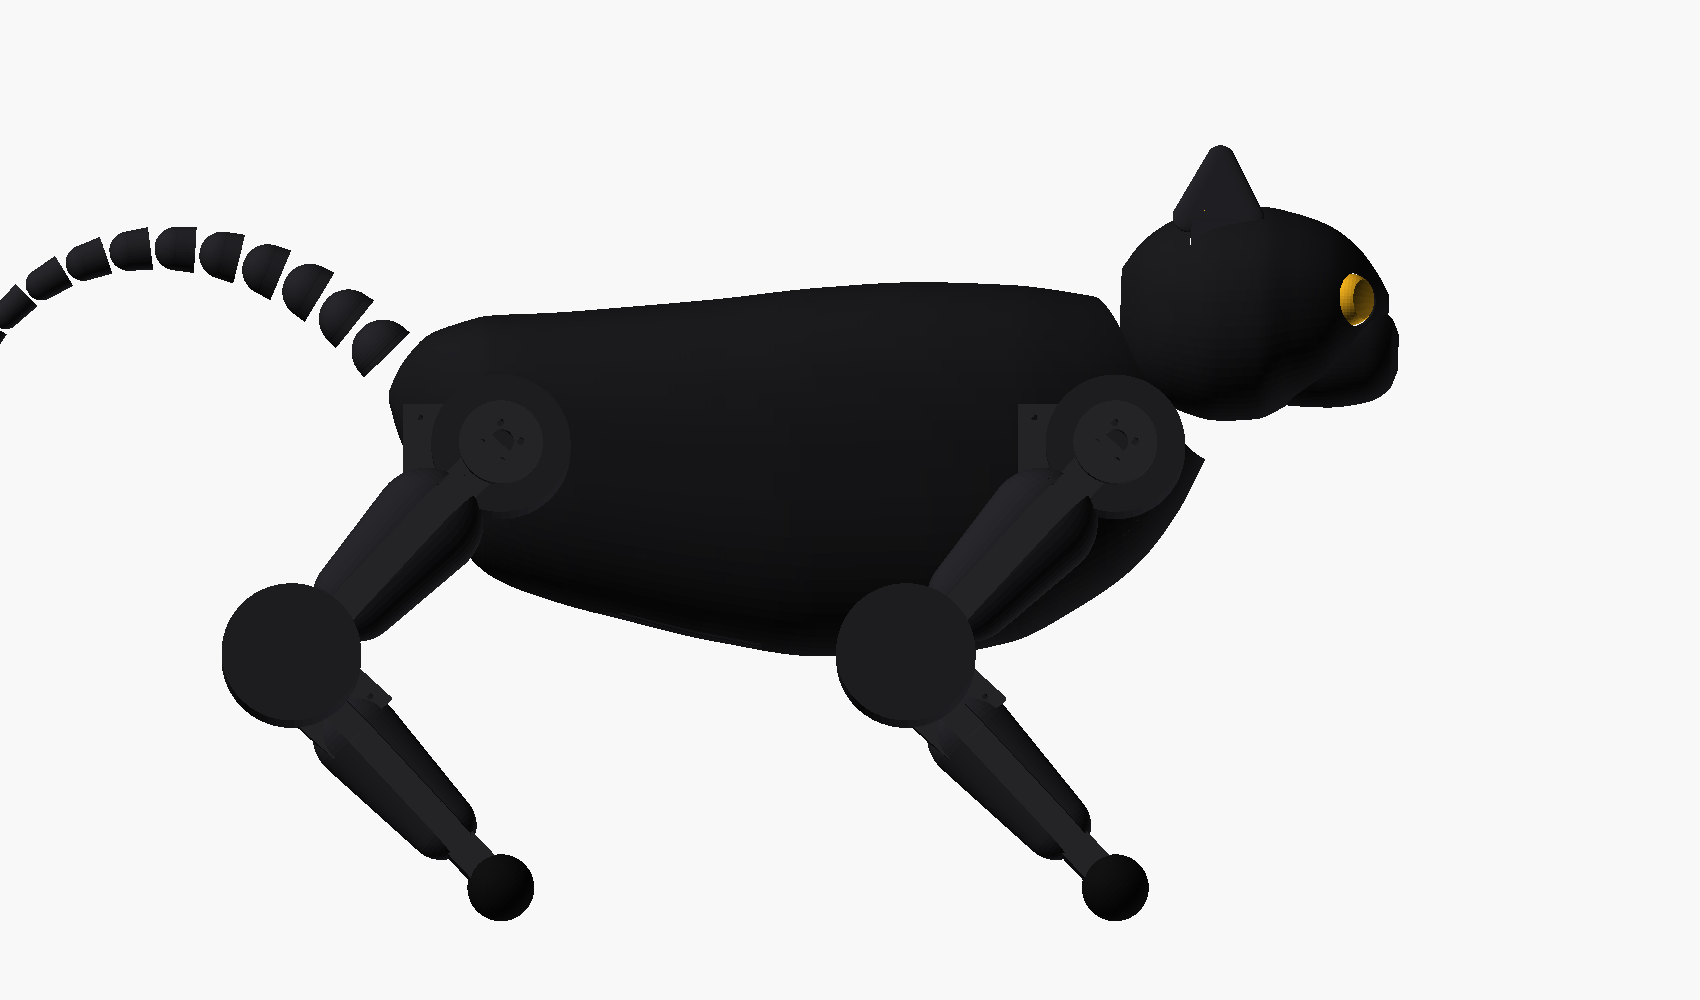
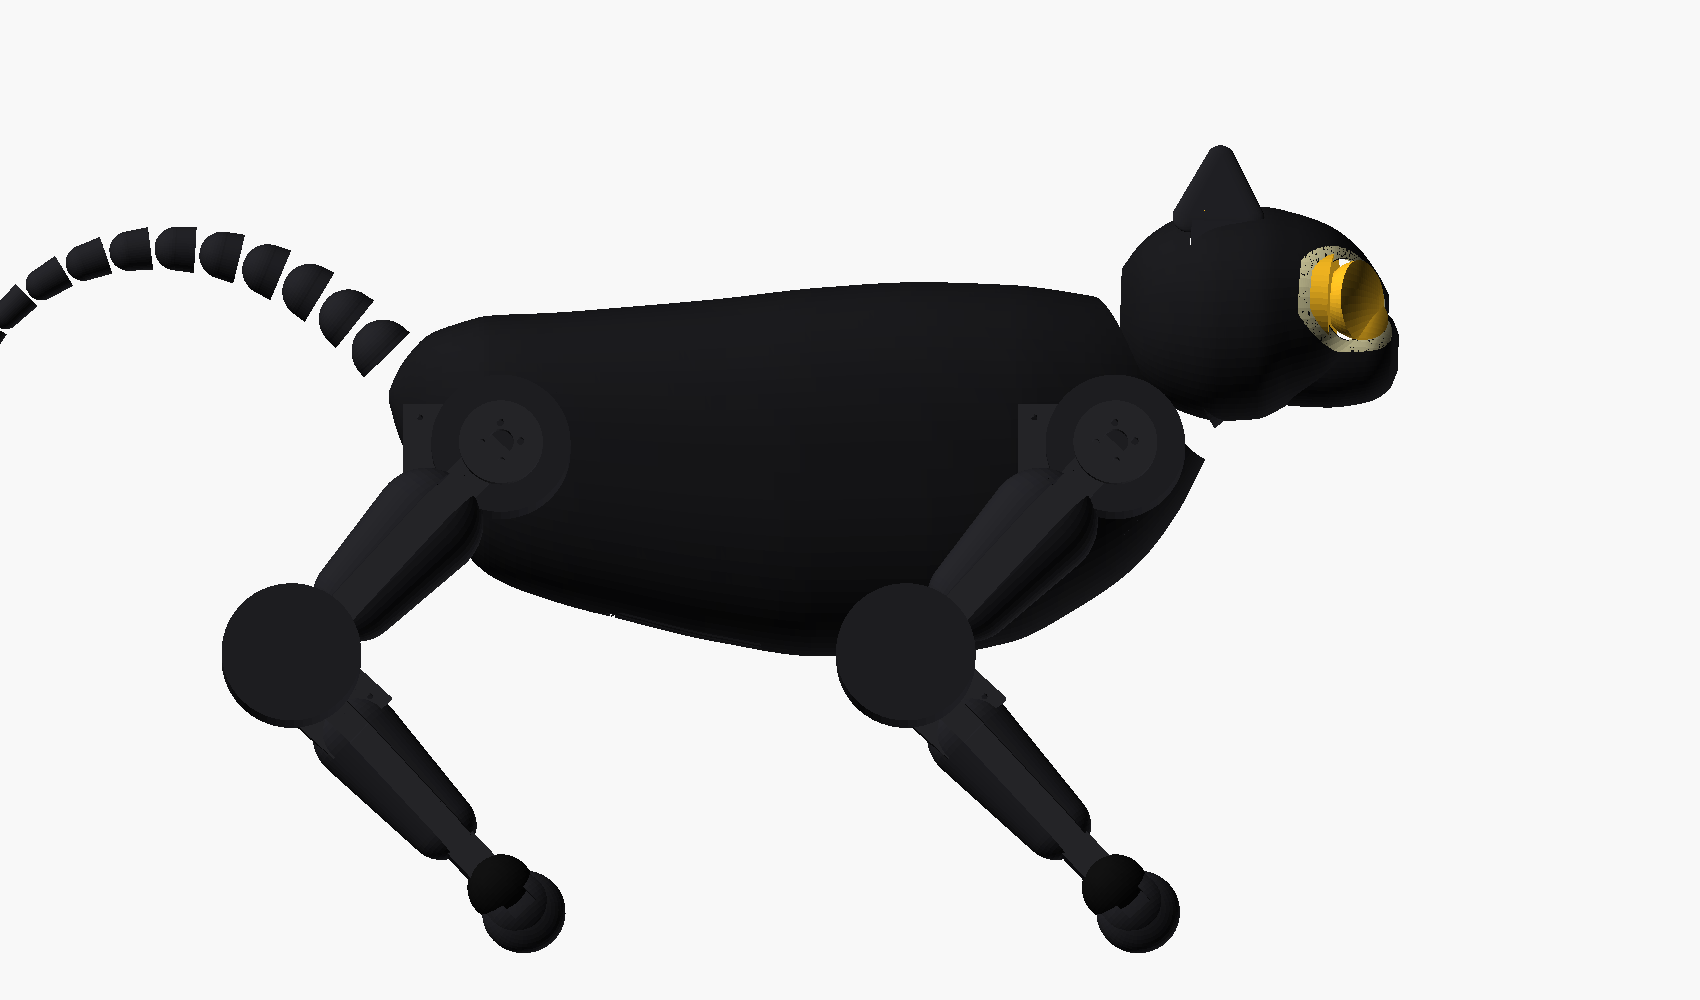
Give the cat the four features the concept leads with
Approved from a side-by-side against Ola's render. Each of these is one of
the things that image does and the CAD did not:

Eyes go from 19 to 29mm, with eye_ring.scad as a new part - a lit ring
around each. This is the single strongest change in the cosmetic layer: at
19mm on an 88mm head the face read as a panther's, and the ring is most of
what separates iris from the black of the face. Both are cut and trimmed
against the skull mesh, so the ring beds onto the curve instead of rocking
on a flat spotface that would break through the cheek.

ankle_link.scad x4 is a FIXED cosmetic wrist. The concept draws a joint
there; we have three servos in a leg and none of them is at the ankle, so
this does not move and the file says so plainly - calling it a joint is a
lie the builder finds out about at assembly. It also covers the last stretch
of bare calf spine, which was the one place a leg still looked like a rod.

Panel lines at x = +/-70, cut as the shell between the skin and a copy 0.9mm
in, so they follow the surface. A cylinder or box cut would bite deeper at
the flanks than at the spine, because the body is not round.

The neck collar goes 34 -> 54mm and gains a third ring. At 34 it disappeared
under the skull, which on the concept is one of the clearest features on the
robot.

Two things learned the hard way and written down where they will be found
again. OpenSCAD's preview renderer draws intersection() against an imported
[…]

Changed region(s): [[0.7482, 0.248, 0.8418, 0.372], [0.6235, 0.868, 0.7171, 0.961], [0.2806, 0.868, 0.3429, 0.961]]

diff --git a/hardware/cad/measure/fc_check.py b/hardware/cad/measure/fc_check.py
@@ -1,0 +1,104 @@
+"""Check printed parts as SOLIDS in FreeCAD, not just as meshes.
+
+trimesh answers "is this mesh closed?". FreeCAD answers "is this a valid
+solid?" - self-intersections, degenerate faces, wrong orientation and zero
+volume shells all get caught by the OCC geometry checker, and none of them
+are visible to a watertight test. A mesh can be watertight and still be
+rejected by a slicer.
+
+It also does the thing trimesh does badly: honest collision between two
+parts, as a real boolean rather than Monte Carlo sampling.
+
+Run it through the portable FreeCAD, from hardware/cad:
+
+    "$FREECAD/freecadcmd.exe" measure/fc_check.py
+
+Set FREECAD, or edit FC_DEFAULT below. With no arguments it checks every
+_c_*.stl / _check_*.stl left by verify.py; pass paths to check specific ones.
+"""
+
+import glob
+import os
+import sys
+
+import FreeCAD as App
+import Mesh
+import Part
+
+# The mesh checks stream a percentage bar to stdout that drowns the report.
+App.Console.SetStatusBar = lambda *a, **k: None
+try:
+    App.Base.ProgressIndicator = None
+except AttributeError:
+    pass
+
+TOL = 0.1        # mm, mesh-to-solid sewing tolerance
+
+
+def as_solid(path):
+    """Load an STL and sew it into a solid OCC shape."""
+    m = Mesh.Mesh(path)
+    shape = Part.Shape()
+    shape.makeShapeFromMesh(m.Topology, TOL)
+    solid = Part.makeSolid(shape)
+    return m, solid
+
+
+def check(path):
+    name = os.path.basename(path).replace(".stl", "")
+    try:
+        mesh, solid = as_solid(path)
+    except Exception as exc:                       # noqa: BLE001
+        print(f"{name:22s} FAILED TO LOAD: {exc}")
+        return False
+
+    problems = []
+    if not mesh.isSolid():
+        problems.append("mesh not solid")
+    if mesh.hasSelfIntersections():
+        # Count them. A handful usually means facets that merely touch at a
+        # tangency, which slicers cope with; hundreds means the boolean
+        # genuinely folded the surface through itself.
+        n = len(mesh.getSelfIntersections())
+        problems.append(f"self-intersecting x{n}")
+    if mesh.countComponents() != 1:
+        problems.append(f"{mesh.countComponents()} components")
+    if not solid.isValid():
+        problems.append("invalid solid")
+    if solid.Volume <= 0:
+        problems.append("non-positive volume")
+
+    bb = solid.BoundBox
+    verdict = "OK " if not problems else "PROBLEM"
+    print(f"{name:22s} {verdict} vol={solid.Volume / 1000:8.1f}cm3 "
+          f"faces={len(solid.Faces):5d} "
+          f"bbox={bb.XLength:6.1f} x {bb.YLength:6.1f} x {bb.ZLength:6.1f}"
+          + ("   " + ", ".join(problems) if problems else ""))
+    return not problems
+
+
+def collide(a_path, b_path):
+    """Volume the two parts genuinely share. A real boolean, so unlike a
+    sampled estimate a small overlap cannot be missed by bad luck."""
+    _, a = as_solid(a_path)
+    _, b = as_solid(b_path)
+    common = a.common(b)
+    return common.Volume if common.Solids else 0.0
+
+
+def main():
+    args = [a for a in sys.argv[1:] if a.endswith(".stl")]
+    if not args:
+        args = sorted(glob.glob("_c_*.stl") + glob.glob("_check_*.stl"))
+    if not args:
+        print("no STLs to check - run verify.py first, or pass paths")
+        return 1
+    bad = 0
+    for path in args:
+        if not check(path):
+            bad += 1
+    print(f"\n{len(args)} parts, {bad} with problems")
+    return 1 if bad else 0
+
+
+main()

diff --git a/hardware/cad/skin/loft.py b/hardware/cad/skin/loft.py
@@ -24,9 +24,13 @@ OpenSCAD layer keeps doing what it did: panel splitting, eye sockets, ear
 sockets, the camera bulkhead.
 
     body_outer.stl / body_inner.stl      outer surface / offset in by WALL
+    body_groove.stl                      offset in by GROOVE - cuts the panel
+                                         lines, which follow the surface
     head_outer.stl / head_inner.stl      likewise
     head_bulge.stl                       offset OUT by BULGE - trims the eye
                                          lens to an exact protrusion
+    head_ring.stl                        offset in by RING - the counterbore
+                                         the illuminated eye ring sits in
 
 Run from hardware/cad:
 
@@ -49,6 +53,8 @@ BOX_L, BOX_W, BOX_H = 300.0, 111.0, 141.0
 
 WALL = 1.8        # cosmetic wall thickness, three 0.6 extrusions
 BULGE = 5.0       # how far the eye lens stands proud of the skull
+RING = 2.4        # depth of the counterbore the illuminated eye ring sits in
+GROOVE = 0.9      # depth of the panel lines cut into the body
 
 # ---------------------------------------------------------------- body
 # Sections are points ON THE SURFACE: x along the body (nose positive),
@@ -194,6 +200,7 @@ def main():
 
     outer = emit("body_outer", loft(BODY, 0.0, n_rings=160, n_points=72))
     inner = emit("body_inner", loft(BODY, WALL, n_rings=160, n_points=72))
+    emit("body_groove", loft(BODY, GROOVE, n_rings=160, n_points=72))
     ext = outer.bounds[1] - outer.bounds[0]
     for name, got, limit in (("length", ext[0], BOX_L),
                              ("width", ext[1], BOX_W),
@@ -207,6 +214,7 @@ def main():
     ho = emit("head_outer", head(0.0))
     hi = emit("head_inner", head(WALL))
     emit("head_bulge", head(-BULGE))
+    emit("head_ring", head(RING))
     hext = ho.bounds[1] - ho.bounds[0]
     print(f"  head {hext[0]:.0f} x {hext[1]:.0f} x {hext[2]:.0f} mm, "
           f"shell {(ho.volume - hi.volume) * 1.27e-3:.0f} g")

diff --git a/hardware/cad/verify.py b/hardware/cad/verify.py
@@ -19,7 +19,8 @@ PARTS = [
     "shell_back_front", "shell_back_rear",
     "shell_belly_front", "shell_belly_rear",
     "head_upper", "head_lower", "ear", "neck_collar",
-    "joint_housing", "eye_lens", "thigh_fairing", "calf_fairing",
+    "joint_housing", "eye_lens", "eye_ring", "ankle_link",
+    "thigh_fairing", "calf_fairing",
     "tail_segment",
 ]
 
@@ -30,7 +31,8 @@ COUNT = {
     "shell_back_front": 1, "shell_back_rear": 1,
     "shell_belly_front": 1, "shell_belly_rear": 1,
     "head_upper": 1, "head_lower": 1, "ear": 2, "neck_collar": 1,
-    "joint_housing": 8, "eye_lens": 2, "thigh_fairing": 4, "calf_fairing": 4,
+    "joint_housing": 8, "eye_lens": 2, "eye_ring": 2, "ankle_link": 4,
+    "thigh_fairing": 4, "calf_fairing": 4,
     "tail_segment": 11,
 }
 
